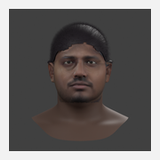
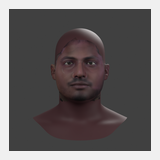
Refresh README stage images from retained photo-to-character outputs
Use fitted mesh, surface appearance and native Character previews from the same recorded run. Record their verified source hashes and reproducible thumbnail transforms without rerendering or changing source assets.

Copilot-Session: eafc4bf7-11d2-487f-8bef-a954d3cb0200

diff --git a/README.md b/README.md
@@ -79,7 +79,8 @@ of the internal `head_reconstruction`, `metahuman` and `pipelines` package names
 |---|---|---|---|---|
 | ![Photograph](docs/images/pipeline/portrait.png) | ![Head-only crop](docs/images/pipeline/cutout.png) | ![Neutral mesh](docs/images/pipeline/clay.png) | ![Surface appearance](docs/images/pipeline/appearance.png) | ![Editable native Character](docs/images/pipeline/native-appearance.png) |
 
-These illustrate formats rather than a likeness guarantee.
+The fitted mesh, surface appearance and native Character come from the same
+photo-to-character run. These illustrate formats rather than a likeness guarantee.
 [Image provenance](docs/images/pipeline/provenance.json) records their sources.
 
 ## Configuration and output
